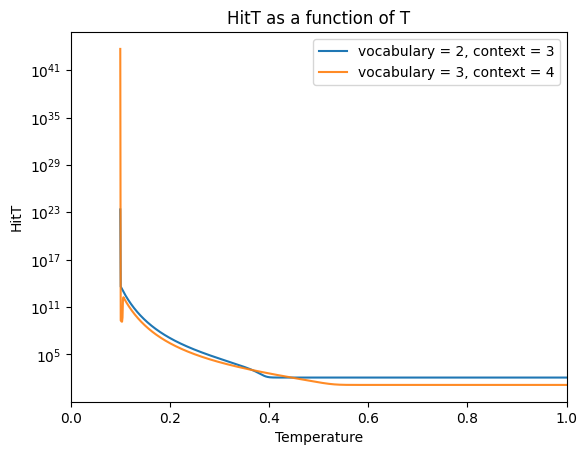
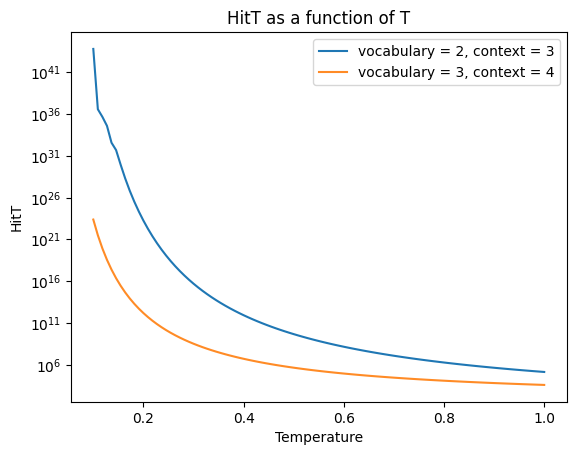
bug fix

diff --git a/analysis/probability_bound.py b/analysis/probability_bound.py
@@ -2,19 +2,17 @@
 import numpy as np
 import torch
 
-def HitT(T, transitions):
+def HitT(T, transitions : np.array):
     """
     T: temperature
     transitions: matrix of logits
     """	
     # convert each row of logits to probabilities
-    for i in range(len(transitions)):
-        row = transitions[i]
-        row = [x/T if x != 0.0 else -np.infty for x in row]
-        row = torch.softmax(torch.tensor(row), dim=0)
-        transitions[i] = row.tolist()
+    transition_matrix = np.zeros(transitions.shape)
 
-    transition_matrix = np.array(transitions)
+    for i in range(len(transitions)):
+        row = [x/T if x != 0.0 else -np.infty for x in transitions[i]]
+        transition_matrix[i] = torch.softmax(torch.tensor(row), dim=0).tolist()
 
     '''
     Since the sum of each row is 1, our matrix is row stochastic.
@@ -22,6 +20,7 @@ def HitT(T, transitions):
     '''
     transition_matrix_transp = transition_matrix.T
     eigenvals, eigenvects = np.linalg.eig(transition_matrix_transp)
+
     '''
     Find the indexes of the eigenvalues that are close to one.
     Use them to select the target eigen vectors. Flatten the result.
@@ -32,7 +31,8 @@ def HitT(T, transitions):
     # Turn the eigenvector elements into probabilites
     stationary_distrib = target_eigenvect / sum(target_eigenvect)
 
-    N = len(transitions[0])
+    # length of matrix
+    N = transition_matrix.shape[0]
 
     # matrix where every row is the stationary distribution
     stationary_distrib_matrix = np.tile(stationary_distrib, (N,1))
@@ -51,6 +51,7 @@ def HitT(T, transitions):
 
 def load_logits(logits_FP):
     # read logits from csv
+
     with open(logits_FP) as f:
         lines = f.readlines()
         states = lines[0].strip().split(",")
@@ -58,7 +59,7 @@ def load_logits(logits_FP):
         for line in lines[1:]:
             transitions.append(list(map(float, line.strip().split(","))))
     
-    return transitions, states
+    return np.array(transitions), states
 
 def hoeffding_bound(t, n, a, b, HitT):
     """
@@ -72,3 +73,8 @@ def hoeffding_bound(t, n, a, b, HitT):
     nu2 = 0.25*n*(b-a)*HitT
 
     return np.exp((-2 * n * (t**2)) / nu2)
+# %%
+if __name__=="__main__":
+    transitions, states = load_logits("../model/logits/logits_vocab2context3.csv")
+    print(HitT(0.99, transitions))
+# %%

diff --git a/analysis/hittingtime_by_temperature.py b/analysis/hittingtime_by_temperature.py
@@ -3,15 +3,15 @@ from probability_bound import HitT, load_logits
 import matplotlib.pyplot as plt
 import numpy as np
 
-
-temperatures = np.linspace(0.1, 1, 1000)
+temperatures = np.linspace(0.1, 1, 100)
 fp_small = "../model/logits/logits_vocab2context3.csv"
-transitions_large, states_large = load_logits(fp_small)
-fp_large = "../model/logits/logits_vocab3context4.csv"
-transitions_small, states_small = load_logits(fp_large)
+transitions_small, states_small = load_logits(fp_small)
 
-hitt_small = [HitT(T, transitions_small) for T in temperatures]
-hitt_large = [HitT(T, transitions_large) for T in temperatures]
+fp_large = "../model/logits/logits_vocab3context4.csv"
+transitions_large, states_large = load_logits(fp_large)
+# %%
+hitt_small = [HitT(t, transitions_small) for t in temperatures]
+hitt_large = [HitT(t, transitions_large) for t in temperatures]
 # %%
 # plot HitT as a function of temperature
 plt.plot(temperatures, hitt_small, label='vocabulary = 2, context = 3')
@@ -21,13 +21,23 @@ plt.ylabel("HitT")
 plt.title("HitT as a function of T")
 # plot HitT as a function of temperature
 plt.legend()
-
 plt.yscale("log")
 # set xlim 
-plt.xlim(0, 1)
-#plt.ylim(1, 1000)
 plt.show()
 
 # %%
 temperatures
+# %%
+hitt_large[list(temperatures).index(0.6)]
+# %%
+temperatures
+# %%
+HitT(0.6, transitions_large)
+# %%
+hitt_large
+# %%
+len(temperatures)
+list(temperatures).index(0.6)
+# %%
+HitT(0.6, transitions_large)
 # %%
